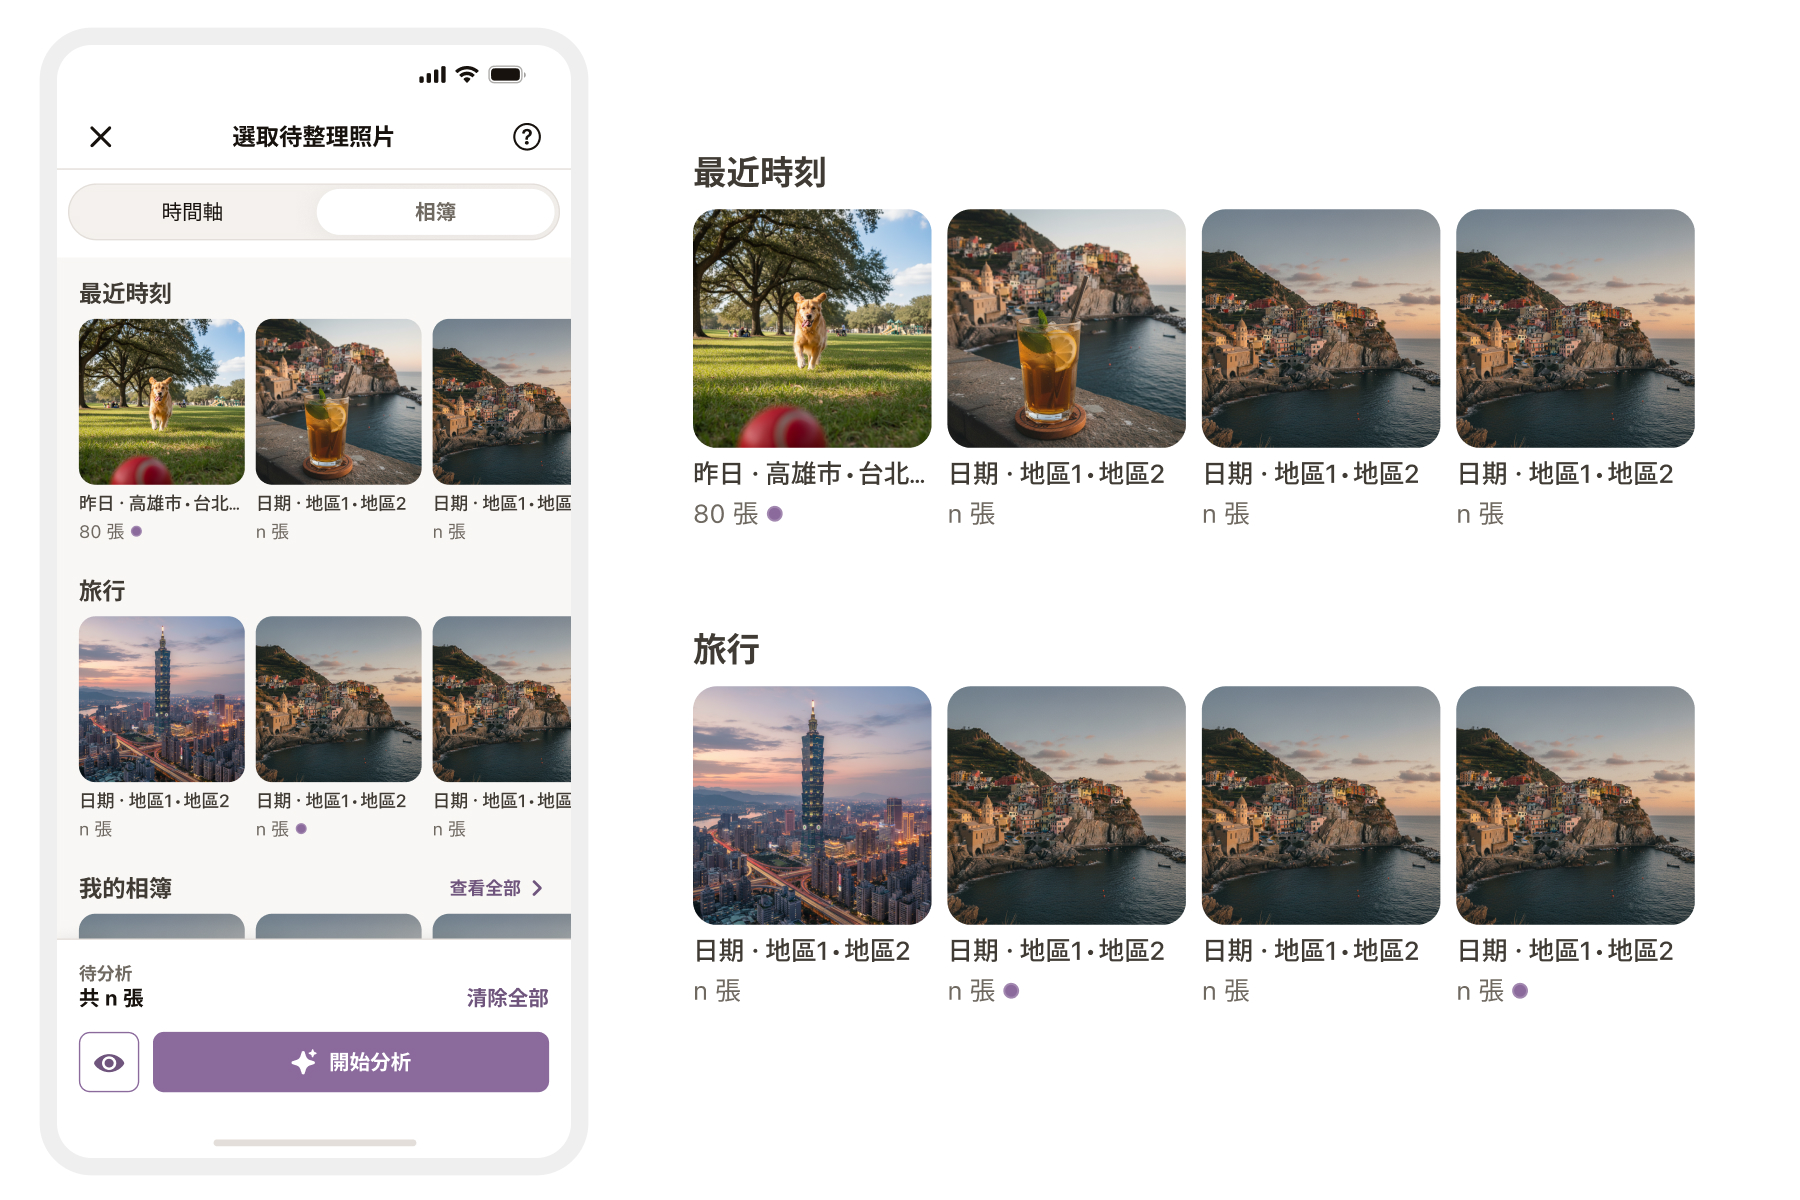
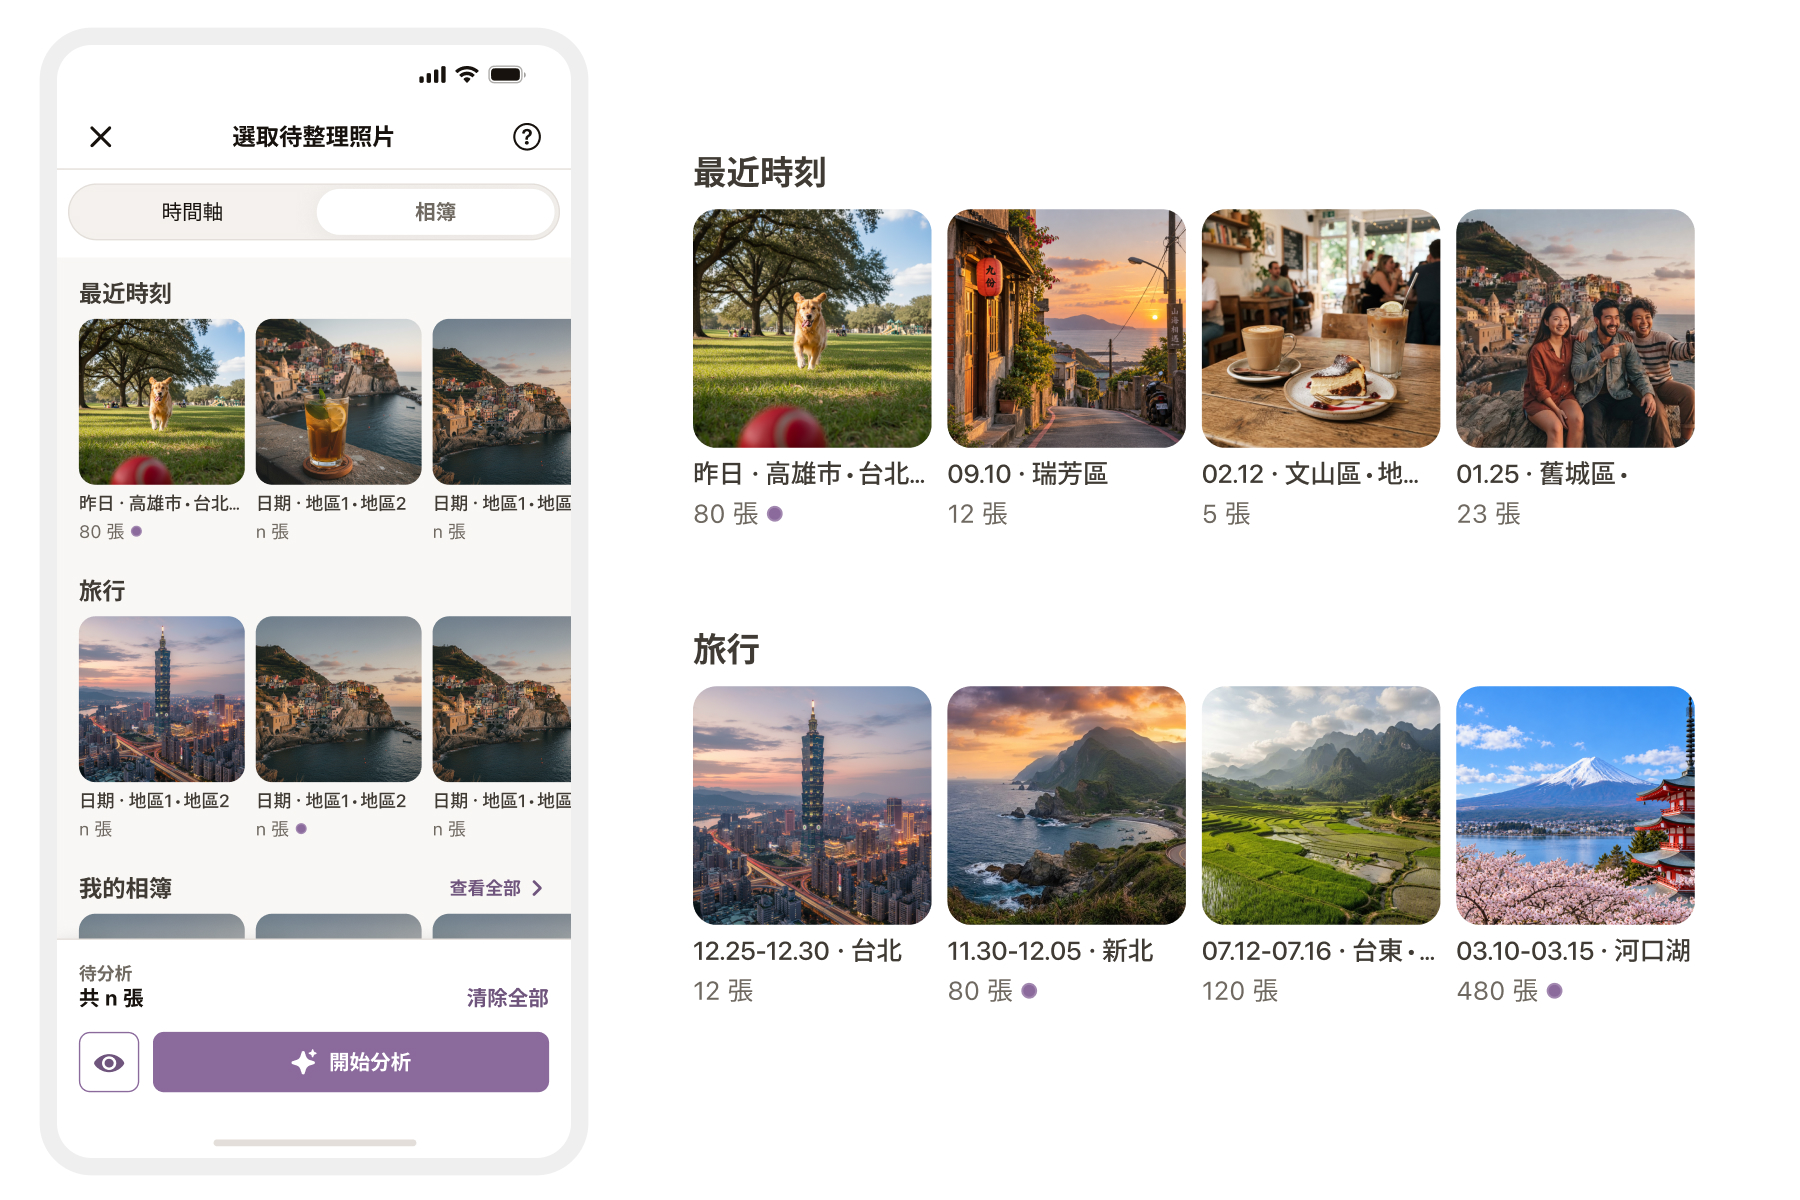
update: 換上智慧相簿分群新圖，alt 一併更新
舊圖是「我的相簿」清單（置頂與紫色時鐘），但那段內容已移到互動設計，
新圖改為最近時刻／旅行兩種分群，與這塊現在的文字對應。

Changed region(s): [[0.5289, 0.555, 0.9644, 0.8325], [0.5289, 0.1542, 0.9644, 0.4317], [0.3733, 0.7708, 0.4978, 0.8325]]

diff --git a/ai-photo-picks/index.html b/ai-photo-picks/index.html
@@ -337,7 +337,7 @@
               <p class="para"><b>不另闢新分區：</b>點擊「查看全部」時，智慧相簿沿用既有的相簿架構與排序規則自然浮現，而不是獨立成一個新分頁。<b>使用者不需要為了新功能重新學一套瀏覽方式。</b></p>
             </div>
           </div>
-          <img class="image-block lightbox-trigger" src="../images/ai-photo-picks/img_photopicker-badge.jpg" alt="我的相簿清單：依最近使用排序，最近點過的相簿標上紫色時鐘 icon，右側紫點代表該相簿有選取的照片">
+          <img class="image-block lightbox-trigger" src="../images/ai-photo-picks/img_photopicker-badge.jpg" alt="智慧相簿的兩種分群：最近時刻將同場景的相片集中成冊、旅行統整跨日跨地的行程，卡片標示日期、地點與張數，紫點代表該相簿有選取的照片">
         </div>
       </div>
       <!-- End Solution -->
